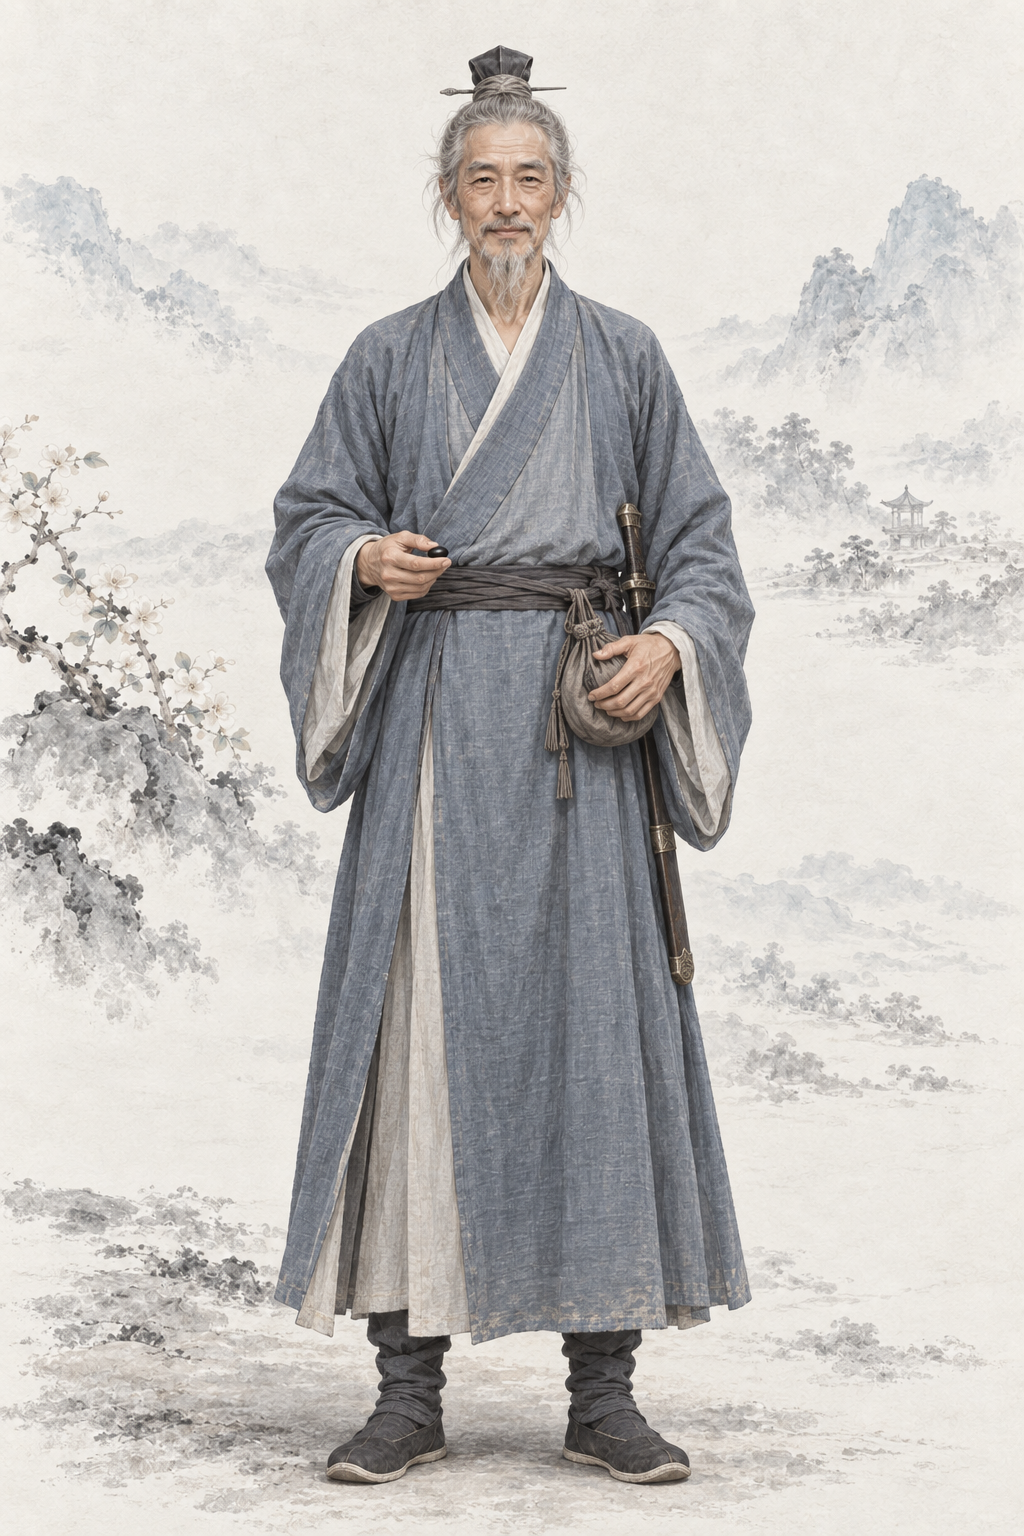
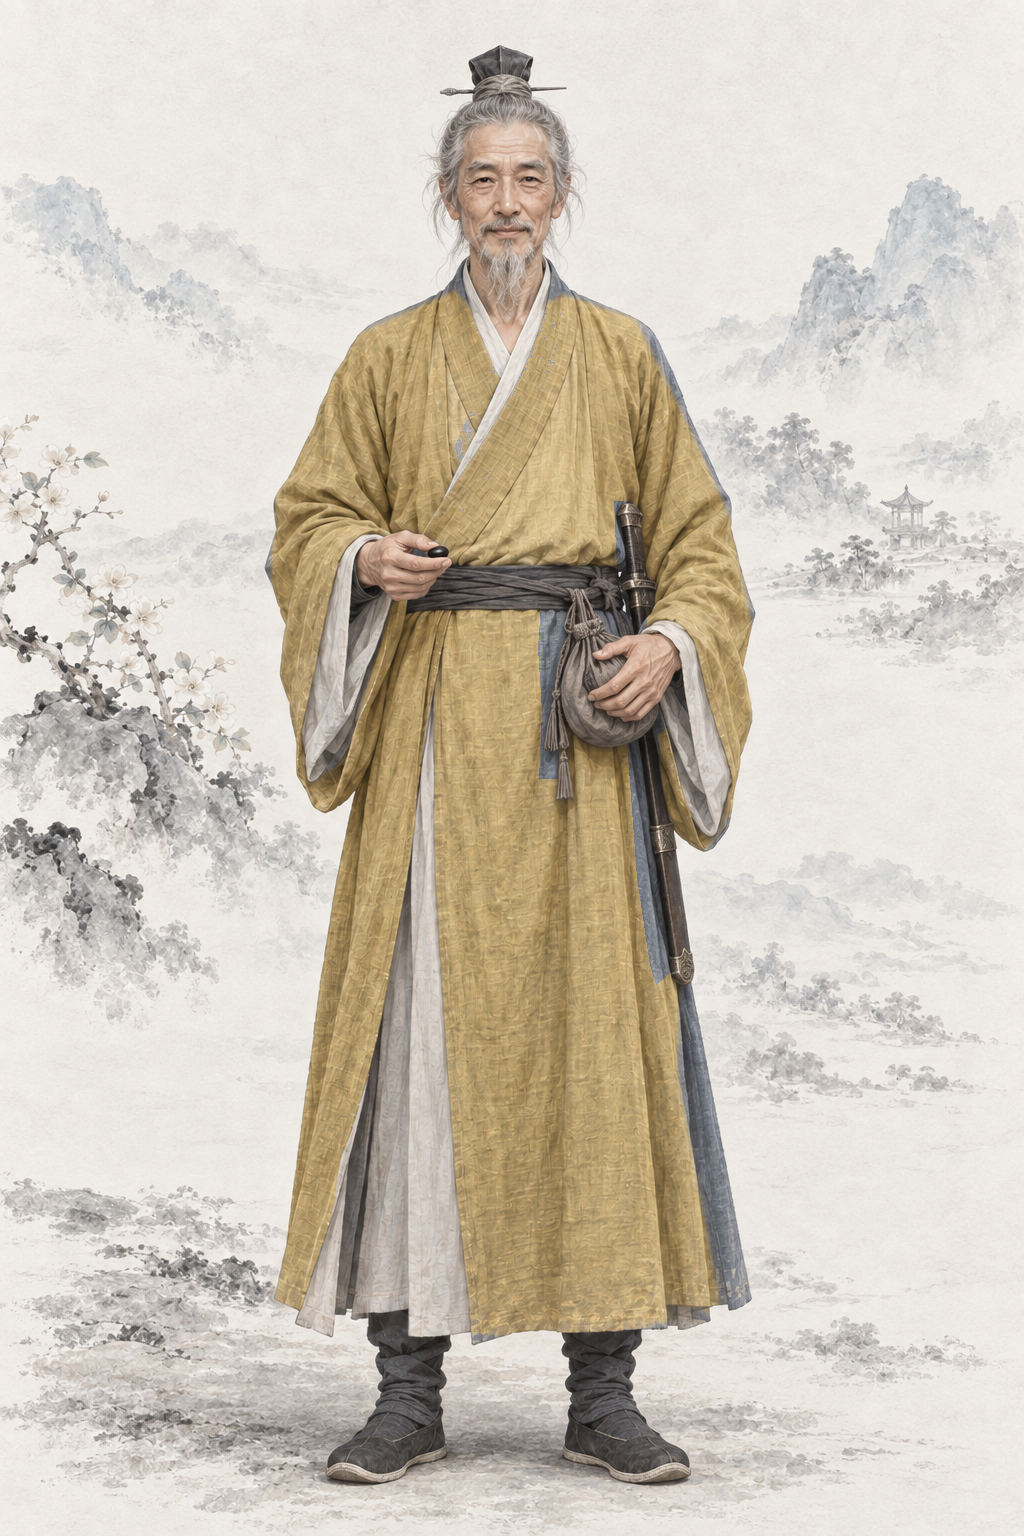
assets: AR-82 原著核对返修 木桑道人道袍改洗旧黄色粗布
木桑道人道袍改洗旧黄色粗布；原著摘句已同步提示词；蒙版外变化0像素。

Executed-By: Codex gpt-6.1-sol（AR-82）

Changed region(s): [[0.25, 0.1875, 0.75, 0.875]]

diff --git a/assets/default/prompts/characters/ch07-bixue/npc_musang.md b/assets/default/prompts/characters/ch07-bixue/npc_musang.md
@@ -19,6 +19,12 @@ realism_revision: user_identity_pose_20261001
 
 # 木桑道人 · 人物写实修正
 
+## AR-82 当前定稿要求
+
+只将灰蓝道袍主体改成洗旧黄色粗布，土黄、柔和旧布质地，保留所有衣褶轮廓，不是明黄色华服。头脸须发、道髻、双手、棋子、腰带、棋袋、剑鞘、内领内衫和双靴逐像素保持。
+
+以上为当前原著核对后的要求，覆盖下文旧版中与之冲突的服饰、器物、伤残、光线和体态描述。
+
 ## 人物与阶段
 
 - subject_id：npc_musang
@@ -74,3 +80,8 @@ FINAL POSE CHECK: FRONT-FACING, head facing forward, both eyes HORIZONTALLY LEVE
 - 采用作者授权宽松自查；偏差如实记录，candidate不代表approved。
 - 源PNG通常为1024×1536 RGB；其他原生2:3尺寸如实登记，原字节保存，不裁切、重编码、放大或去除溯源。
 - 完整请求、实际参考哈希及旧版本备份见 `.agents/coord/portrait-generation/identity-20261001/por_npc_musang__ch07_base.prepared.json`。
+
+## 原著依据
+
+- 《碧血剑》三《经年亲剑铗，长日对楸枰》：“身穿黄色粗布道袍”（https://xuges.com/WUXIA/jinyong/bxj/014.htm）
+- AR-82 返修约束：只将灰蓝道袍主体改成洗旧黄色粗布，土黄、柔和旧布质地，保留所有衣褶轮廓，不是明黄色华服。头脸须发、道髻、双手、棋子、腰带、棋袋、剑鞘、内领内衫和双靴逐像素保持。
